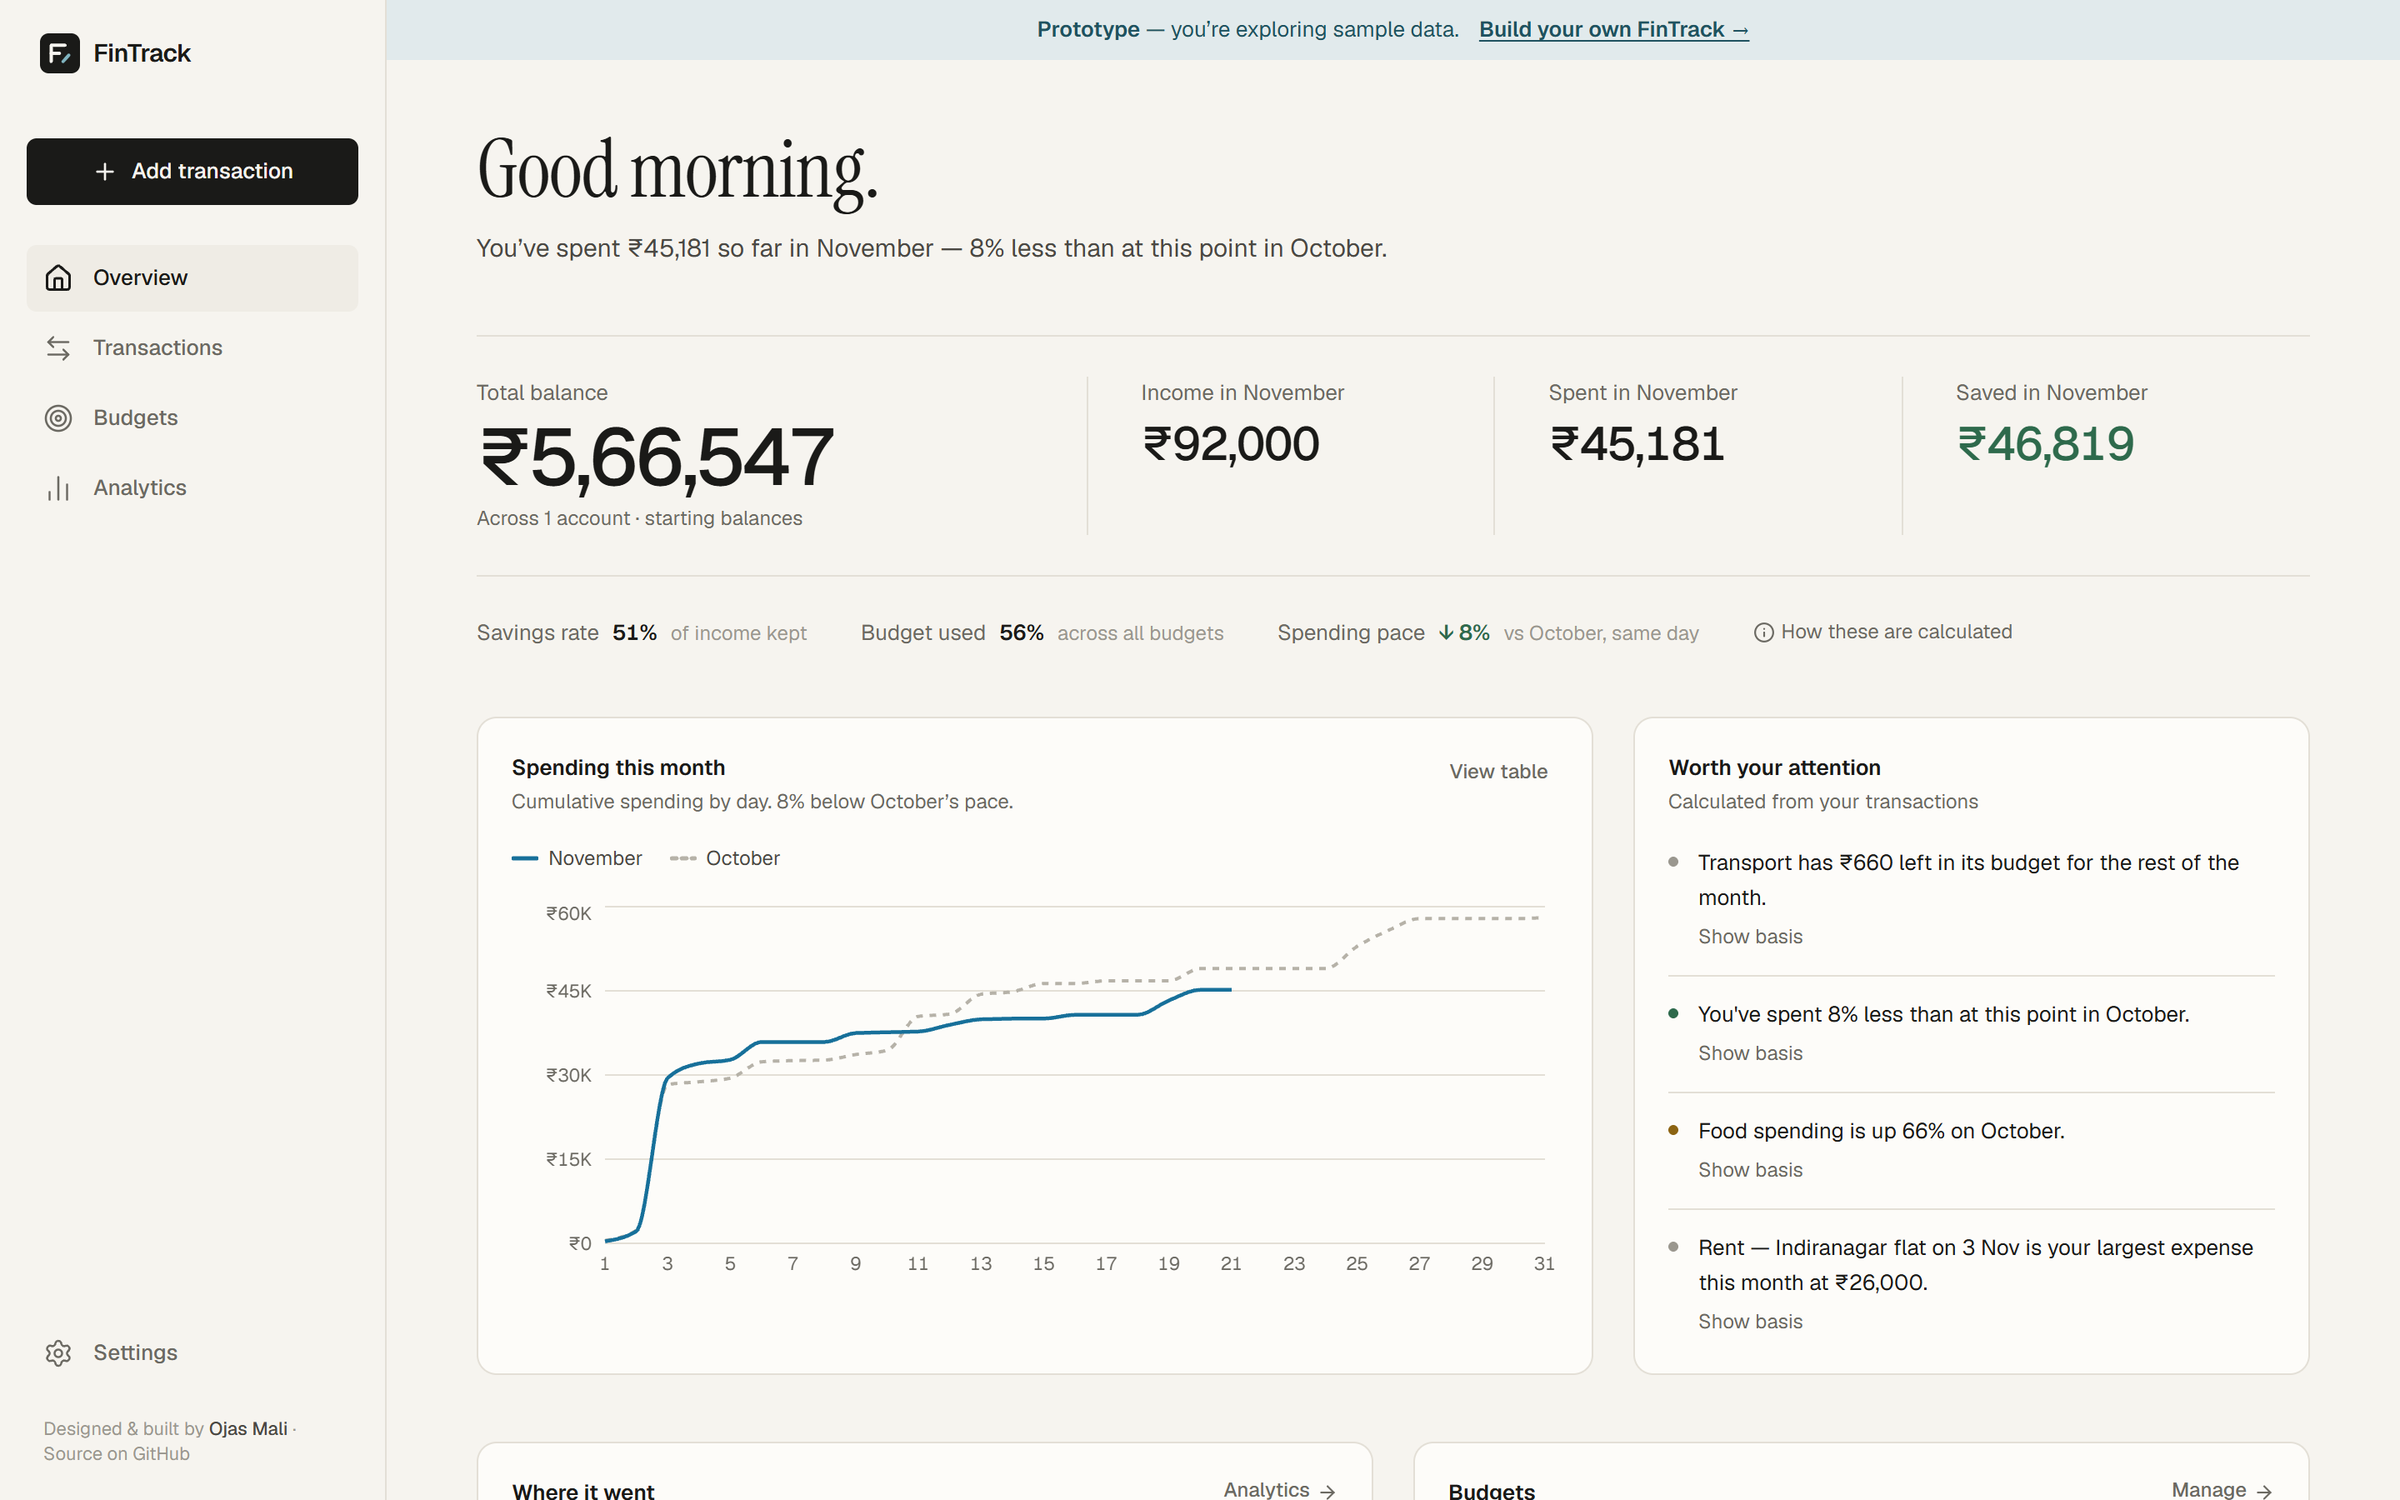
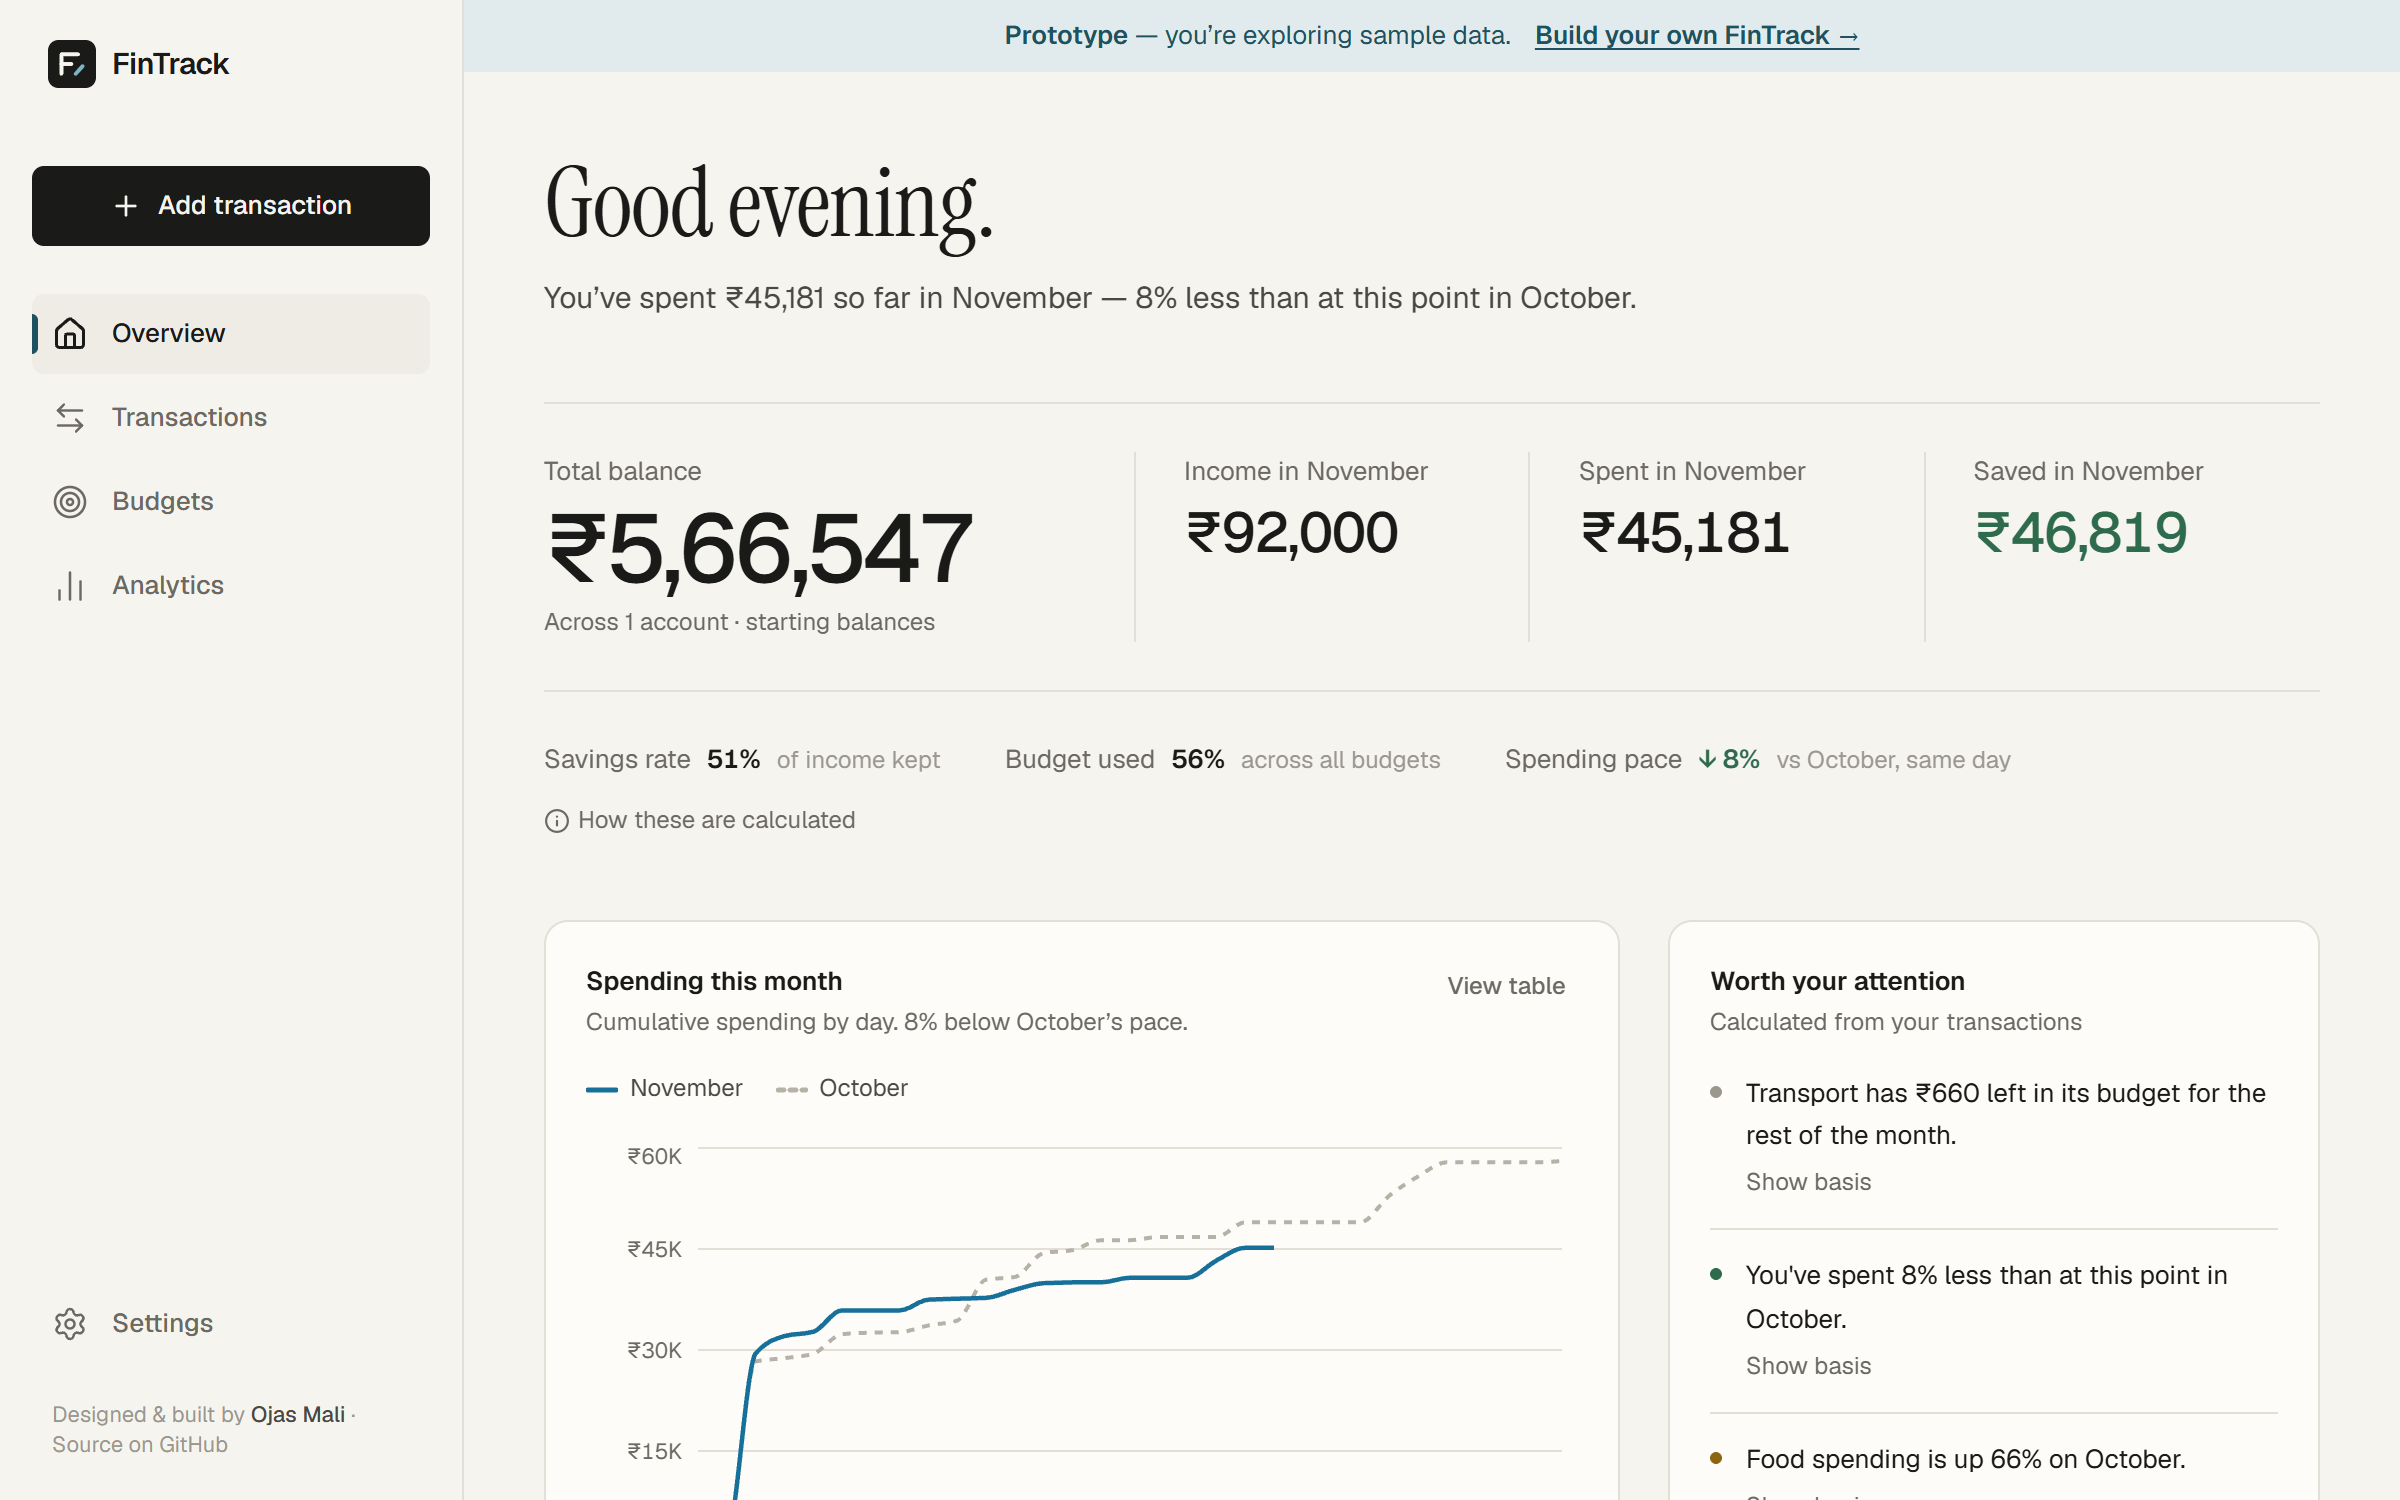
README: production screenshots and design notes

diff --git a/README.md b/README.md
@@ -14,7 +14,7 @@ FinTrack is a personal finance web app that turns raw transactions into a calm m
 |---|---|
 | ![Analytics: income vs spending, savings rate, highlights](docs/screenshots/analytics-desktop.png) | ![Budgets: per-category limits with on-track, close and over states](docs/screenshots/budgets-desktop.png) |
 | **Transactions** | **Welcome** |
-| ![Transactions: search, filters, period picker, CSV export](docs/screenshots/transactions-desktop.png) | ![Welcome page: open the prototype or build your own](docs/screenshots/welcome-desktop.png) |
+| ![Transactions: search, filters, period picker, CSV export](docs/screenshots/transactions-desktop.png) | ![Welcome page: a live slice of the overview next to the headline, then two ways in](docs/screenshots/welcome-desktop.png) |
 
 <p align="center">
   <img src="docs/screenshots/overview-mobile.png" alt="FinTrack overview on a phone" width="260" />
@@ -37,6 +37,10 @@ FinTrack is a personal finance web app that turns raw transactions into a calm m
 | **Settings** | Display name, currency (every current ISO currency, formatted with its own symbol, digit grouping and decimal places), accounts and starting balances, budget-warning preference, CSV export, loading or removing sample data, deleting all transactions, sign out. |
 | **Auth** | Email + password sign-up and sign-in through Supabase Auth, persistent sessions and protected routes. Cached data is cleared on sign-out. |
 | **Two ways in, no sign-up** | The welcome page offers **See the prototype** (a workspace pre-filled with labelled sample data) and **Build your own FinTrack** (a workspace that starts from zero for tracking your own money). Both are stored only in that browser, kept separate, and can be erased from Settings. Real accounts are optional. |
+
+### Design and motion
+
+Warm paper, dark ink and one petrol accent; Geist for the interface and every number (tabular figures), Instrument Serif for headlines. The welcome page opens with a working slice of the overview — this month's income, spending, savings, spending pace and top categories — computed from the same sample data the prototype loads, so every number on the landing page matches the app. Motion is small and purposeful: word-by-word headline, figures that count up once, a pace line that draws itself, scroll reveals, a page settle on navigation and chart series that draw in. All of it switches off under `prefers-reduced-motion`. Tokens, type scale and motion rules are documented in [DESIGN.md](DESIGN.md).
 
 **Deliberately left out of v1:** dark mode, recurring transactions, goals, multiple currencies with conversion, and bank sync (see *Future improvements*). Insights are deterministic calculations, so they are called **Insights**, not "AI Insights".
 
